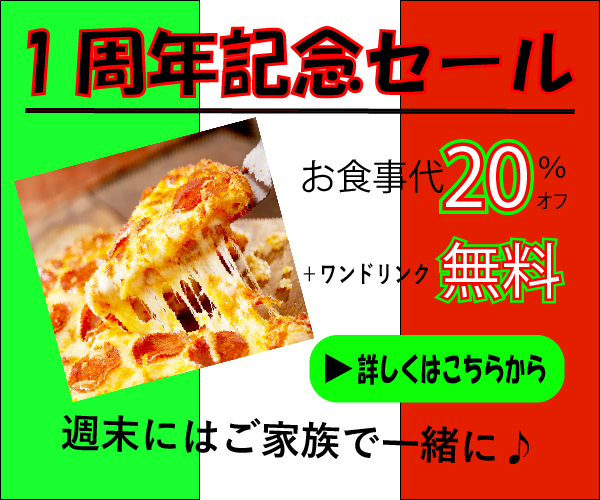
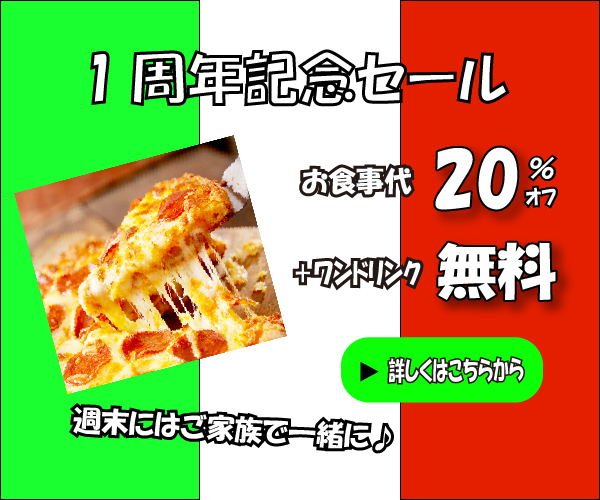
Add files via upload

diff --git a/index.html b/index.html
@@ -71,7 +71,7 @@
               
               <div class="container effect-fade">
                 
-                <div class="works-img works-img-1"><img src="img/bana-seisaku09.jpg" alt="" /></div>
+                <div class="works-img works-img-1"><img src="img/bana-seisaku09 (2).jpg" alt="" /></div>
                 <p class="works-name">旅行バナー 京都に泊まろう <br>
                   所要時間：40分<br>
                   シンプルな白と茶色の2色でまとめました。縦に分けるのではなく、横に分けてみました。特にこだわった点は、丸をつなげて、色素を落とし、中に文字を書いてみました。
@@ -81,7 +81,7 @@
             </a>
               
               <section id="modal-1" class="hidden-1">
-                <img src="img/bana-seisaku09.jpg" alt="">
+                <img src="img/bana-seisaku09 (2).jpg" alt="">
                 <div id="close-1">
                 <p><strong>閉じる</strong></p> 
                 </div>
@@ -93,7 +93,7 @@
 
               <div class="container effect-fade">
 
-                <div class="works-img  works-img-2"><img src="img/bana-seisaku08.jpg" alt="" /></div>
+                <div class="works-img  works-img-2"><img src="img/bana-seisaku08 (2).jpg" alt="" /></div>
                 <p class="works-name">旅行バナー 京都へ行こう<br>
                   所要時間：1時間00分<br>
                   派手な色を付けず、主に紫色を使いながら、写真がすごく良かったので、写真の方がメインとなるように意識しました。
@@ -103,7 +103,7 @@
             </a>
 
             <section id="modal-2" class="hidden-2">
-              <img src="img/bana-seisaku08.jpg" alt="">
+              <img src="img/bana-seisaku08 (2).jpg" alt="">
               <div id="close-2">
               <p><strong>閉じる</strong></p> 
               </div>
@@ -115,7 +115,7 @@
 
               <div class="container effect-fade">
 
-                <div class="works-img works-img-3"><img src="img/bana-seisaku05.jpg" alt="" /></div>
+                <div class="works-img works-img-3"><img src="img/bana-seisaku05 (3).jpg" alt="" /></div>
                 <p class="works-name">新生活応援バナー<br>
                   所要時間：1時間20分<br>
                   背景にまな板を貼ってみました。シンプルな配色を意識し、白と緑を中心としてみました。新生活の明るさを意識しました。
@@ -125,7 +125,7 @@
             </a>
 
             <section id="modal-3" class="hidden-3">
-              <img src="img/bana-seisaku05.jpg" alt="">
+              <img src="img/bana-seisaku05 (3).jpg" alt="">
               <div id="close-3">
               <p><strong>閉じる</strong></p> 
               </div>
@@ -138,17 +138,17 @@
               <div class="container effect-fade">
 
                 <div class="works-img works-img-4">
-                  <img src="img/bana-seisaku03.jpg" alt="" /></div>
+                  <img src="img/bana-seisaku03 (2).jpg" alt="" /></div>
                 <p class="works-name">ピザバナー<br>
                   所要時間：1時間00分<br>
-                  最初の頃に作ったバナーです。よくあるチラシを意識しました。ぴざにかけてと目立つように赤が中心です。
+                  最初の頃に作ったバナーです。よくあるチラシを意識しました。トマトを意識してケチャップ色のような色を背景にしました。
                 </p>
                 <p class="works-info">illustrator</p>
               </div>
             </a>
 
             <section id="modal-4" class="hidden-4">
-              <img src="img/bana-seisaku03.jpg" alt="">
+              <img src="img/bana-seisaku03 (2).jpg" alt="">
               <div id="close-4">
               <p><strong>閉じる</strong></p> 
               </div>
@@ -204,7 +204,7 @@
 
               <div class="container effect-fade">
 
-                <div class="works-img works-img-7"><img src="img/bana-seisaku13.jpg" alt="" /></div>
+                <div class="works-img works-img-7"><img src="img/bana-seisaku13 (2).jpg" alt="" /></div>
                 <p class="works-name">筋トレバナー<br>
                   所要時間：1時間30分<br>
                   シンプルな黒白でまとめました。デザインに使った男性画像ですが、あえてphotoshopで暗くして、黒と白のコントラストが目立つようにしました。
@@ -214,7 +214,7 @@
             </a>
 
             <section id="modal-7" class="hidden-7">
-              <img src="img/bana-seisaku13.jpg" alt="">
+              <img src="img/bana-seisaku13 (2).jpg" alt="">
               <div id="close-7">
               <p><strong>閉じる</strong></p> 
               </div>
@@ -226,7 +226,7 @@
 
               <div class="container effect-fade">
 
-                <div class="works-img works-img-8"><img src="img/bana-seisaku14.jpg" alt="" /></div>
+                <div class="works-img works-img-8"><img src="img/bana-seisaku16.jpg" alt="" /></div>
                 <p class="works-name">競馬バナー<br>
                   所要時間：1時間30分<br>
                  色がたくさん配置されているので、あえて色を散らしてみました。4月4日と奇跡の分は当日同時に起こることなので、同じように配色しました。
@@ -236,7 +236,7 @@
             </a>
 
             <section id="modal-8" class="hidden-8">
-              <img src="img/bana-seisaku14.jpg" alt="">
+              <img src="img/bana-seisaku16.jpg" alt="">
               <div id="close-8">
               <p><strong>閉じる</strong></p> 
               </div>
